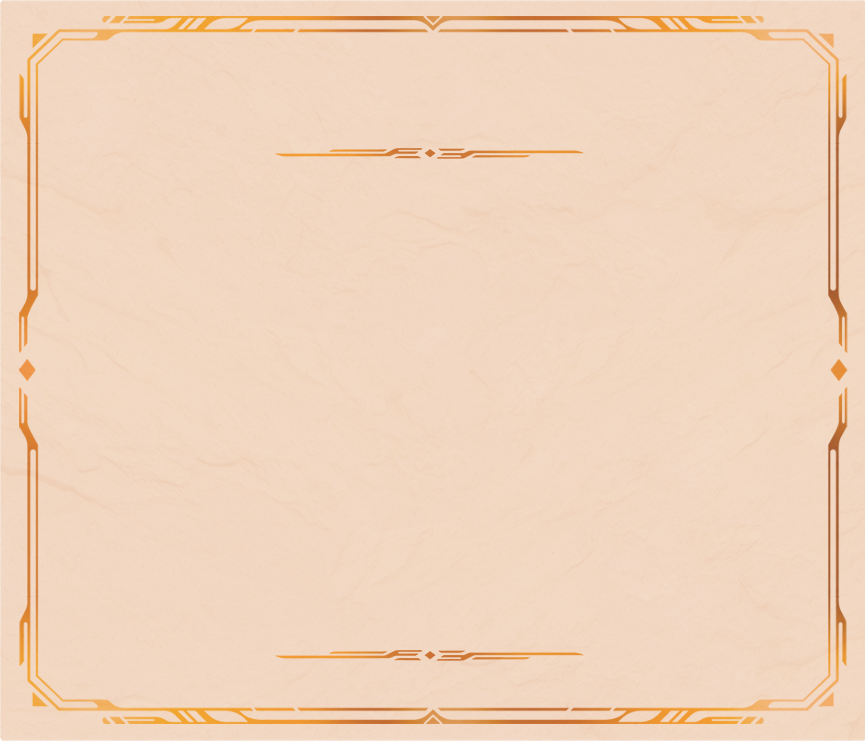
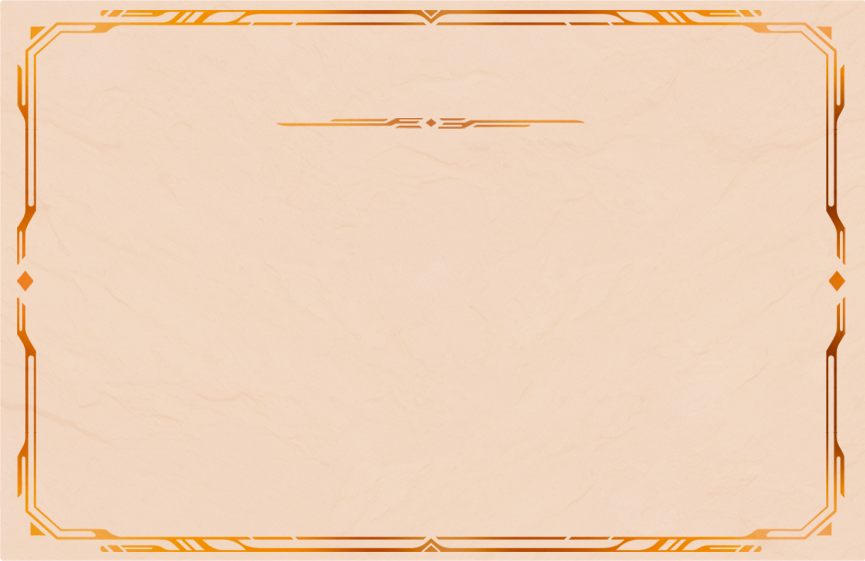
Faq and Coming soon Updated

Changed region(s): [[0.0, 0.0, 0.9988, 1.0], [0.3121, 0.1818, 0.6867, 0.2424], [0.3121, 0.8788, 0.6555, 0.9091]]

diff --git a/src/pages/FAQPage.jsx b/src/pages/FAQPage.jsx
@@ -1,62 +1,124 @@
-import React from 'react';
+import React from "react";
 import Panel from "../assets/Images/FPanel.png";
 import Bread from "../assets/Images/BreadBG.png";
+import Banner from "../assets/Images/Banner.png";
 
 export default function FAQPage({ setCurrentPage }) {
   return (
     <div className="flex justify-center items-center min-h-screen p-4">
       <div className="relative flex flex-col items-center w-full">
         {/* Breadcrumb at the top */}
-        <div className="relative w-[500px] h-[81px] flex items-center justify-center mt-[-30px] mb-[10px] z-10"
-             style={{ backgroundImage: `url(${Bread})`, backgroundSize: 'contain', backgroundRepeat: 'no-repeat', backgroundPosition: 'center' }}>
+        <div
+          className="relative w-[500px] h-[81px] flex items-center justify-center mt-[-150px] mb-[10px] z-10"
+          style={{
+            backgroundImage: `url(${Bread})`,
+            backgroundSize: "contain",
+            backgroundRepeat: "no-repeat",
+            backgroundPosition: "center",
+          }}
+        >
           <div className="flex items-center space-x-2 text-[#4a2d00] font-semibold">
-            <button 
-              onClick={() => setCurrentPage('battle')} 
-              className="cursor-pointer hover:text-[#e0ac54] transition-colors">
+            <button
+              onClick={() => setCurrentPage("battle")}
+              className="cursor-pointer hover:text-[#e0ac54] transition-colors"
+            >
               Home
             </button>
             <span>&gt;</span>
-            <span className="text-[#e0ac54]">FAQ</span>
+            <span className="text-[#4a2d00]">FAQ</span>
           </div>
         </div>
-      <div className="relative rounded-lg p-7 w-[972px] h-[833px] shadow-lg bg-cover bg-center" style={{ backgroundImage: `url(${Panel})` }}>
-        
-        {/* FAQ Title */}
-        <h1 className="text-4xl font-bold text-[#4a2d00] text-center mb-4 mt-12">FAQ</h1>
-          
-        {/* FAQ Grid */}
-        <div className="grid grid-cols-1 md:grid-cols-2 gap-7 mt-36 ml-[115px] mr-18 max-w-4xl mx-auto">
-          <div className="bg-[#f9f3e8] border-2 border-[#e0ac54] rounded-md p-4 shadow-md w-[270px] h-[162px]">
-            <h2 className="font-bold text-base mb-2 text-[#4a2d00]">What is Bazaar Broker?</h2>
-            <p className="text-xs text-[#4a2d00]">
-              Bazaar Broker is a web-based deck tracker for The Bazaar. It helps players track battles and 
-              optimize their layouts (coming soon).
-            </p>
-          </div>
+        <div
+          className="relative rounded-lg p-7 w-[1038px] h-[673px] shadow-lg bg-cover bg-center"
+          style={{ backgroundImage: `url(${Panel})` }}
+        >
+          {/* FAQ Title */}
+          <h1 className="text-4xl font-bold text-[#4a2d00] text-center mb-4 mt-12">
+            FAQ
+          </h1>
 
-          <div className="bg-[#f9f3e8] border-2 border-[#e0ac54] rounded-md p-4 shadow-md w-[270px] h-[162px]">
-            <h2 className="font-bold text-lg mb-2 text-[#4a2d00]">Is it free to use?</h2>
-            <p className="text-sm text-[#4a2d00]">
-              Yes, Bazaar Broker is completely free to use for all players.
-            </p>
-          </div>
+          {/* FAQ Grid */}
+          <div className="grid grid-cols-1 md:grid-cols-2 gap-7 mt-[95px] ml-[140px] mr-18 max-w-4xl mx-auto">
+            <div className="bg-[#f9f3e8] border-2 border-[#e0ac54] rounded-md p-4 shadow-md w-[270px] h-[162px]">
+              <h2 className="font-bold text-base mb-2 text-[#4a2d00]">
+                What is Bazaar Broker?
+              </h2>
+              <p className="text-xs text-[#4a2d00]">
+                Bazaar Broker is a web-based deck tracker for The Bazaar. It
+                helps players track battles and optimize their layouts (coming
+                soon).
+              </p>
+            </div>
 
-          <div className="bg-[#f9f3e8] border-2 border-[#e0ac54] rounded-md p-4 shadow-md w-[270px] h-[162px]">
-            <h2 className="font-bold text-lg mb-2 text-[#4a2d00]">How do I get started?</h2>
-            <p className="text-sm text-[#4a2d00]">
-              Simply Add you Cards in the Deck or Choose from a Monster Loadout then Clik on Battle.
-            </p>
-          </div>
+            <div className="bg-[#f9f3e8] border-2 border-[#e0ac54] rounded-md p-4 shadow-md w-[270px] h-[162px]">
+              <h2 className="font-bold text-lg mb-2 text-[#4a2d00]">
+                Is it free to use?
+              </h2>
+              <p className="text-sm text-[#4a2d00]">
+                Yes, Bazaar Broker is completely free to use for all players.
+              </p>
+            </div>
 
-          <div className="bg-[#f9f3e8] border-2 border-[#e0ac54] rounded-md p-4 shadow-md w-[270px] h-[162px]">
-            <h2 className="font-bold text-lg mb-2 text-[#4a2d00]">What features are coming soon?</h2>
-            <p className="text-sm text-[#4a2d00]">
-              We're working on deck optimization tools, advanced statistics, A detailed list of items.
-            </p>
+            <div className="bg-[#f9f3e8] border-2 border-[#e0ac54] rounded-md p-4 shadow-md w-[270px] h-[162px]">
+              <h2 className="font-bold text-lg mb-2 text-[#4a2d00]">
+                How do I get started?
+              </h2>
+              <p className="text-sm text-[#4a2d00]">
+                Simply Add you Cards in the Deck or Choose from a Monster
+                Loadout then Clik on Battle.
+              </p>
+            </div>
+
+            <div className="bg-[#f9f3e8] border-2 border-[#e0ac54] rounded-md p-4 shadow-md w-[270px] h-[162px]">
+              <h2 className="font-bold text-lg mb-2 text-[#4a2d00]">
+                What features are coming soon?
+              </h2>
+              <p className="text-sm text-[#4a2d00]">
+                We're working on deck optimization tools, advanced statistics, A
+                detailed list of items.
+              </p>
+            </div>
+          </div>
+        </div>
+        {/* Support Banner fixed at Bottom */}
+        <div
+          className="fixed bottom-0 left-0 w-full h-[150px] z-50 flex justify-center items-center"
+          style={{
+            backgroundImage: `url(${Banner})`,
+            backgroundSize: "cover",
+            backgroundRepeat: "no-repeat",
+            backgroundPosition: "center",
+          }}
+        >
+          <div className=" mt-[25px] w-full max-w-screen-xl flex justify-between items-center px-10">
+            <div className="max-w-[60%] text-[#4a2d00] text-sm leading-relaxed">
+              <p>
+                We would love to create our own Bazaar-inspired game. We've
+                launched a Kickstarter page where you can show your support.
+                <br />
+                Why should you spend your hard-earned money on us?
+                <br />
+                Reynad, while he was still handsome, released{" "}
+                <i>The Bazaar | Reynad’s New Card Game</i> 6 years ago.
+                <br />
+                We can do better in 6 ... months.
+              </p>
+            </div>
+
+            <button
+              className="bg-[#4a2d00] hover:bg-[#e0ac54] text-white font-semibold px-6 py-2 rounded-xl transition-colors"
+              onClick={() =>
+                window.open(
+                  "https://bazaar-broker-kickstarter-link.com",
+                  "_blank"
+                )
+              }
+            >
+              Support Us
+            </button>
           </div>
         </div>
       </div>
-    </div>
     </div>
   );
 }

diff --git a/src/pages/UpcomingFeaturesPage.jsx b/src/pages/UpcomingFeaturesPage.jsx
@@ -1,58 +1,124 @@
 import React from "react";
-import Panel from "../assets/Images/FPanel.png";
 import Bread from "../assets/Images/BreadBG.png";
+import FF from "../assets/Images/FeatureFrame.png";
+import Banner from "../assets/Images/Banner.png";
 
 const UpcomingFeatures = ({ setCurrentPage }) => {
-return (
-  <div className="flex justify-center items-center min-h-screen p-4">
-     <div className="relative flex flex-col items-center w-full">
-    {/* Breadcrumb at the top */}
-    <div 
-      className="relative w-[500px] h-[81px] flex items-center justify-center mt-[-30px] mb-[10px] z-10"
-      style={{ backgroundImage: `url(${Bread})`, backgroundSize: 'contain', backgroundRepeat: 'no-repeat', backgroundPosition: 'center' }}
-    >
-      <div className="flex items-center space-x-2 text-[#4a2d00] font-semibold">
-      <button 
-        onClick={() => setCurrentPage('battle')} 
-        className="cursor-pointer hover:text-[#e0ac54] transition-colors"
-      >
-        Home
-      </button>
-      <span>&gt;</span>
-      <span className="text-[#e0ac54]">Upcoming Features</span>
+  return (
+    <div className="flex justify-center items-center min-h-screen p-4">
+      <div className="relative flex flex-col items-center w-full">
+        {/* Breadcrumb at the top */}
+        <div
+          className="relative w-[500px] h-[81px] flex items-center justify-center mt-[-30px] mb-[10px] z-10"
+          style={{
+            backgroundImage: `url(${Bread})`,
+            backgroundSize: "contain",
+            backgroundRepeat: "no-repeat",
+            backgroundPosition: "center",
+          }}
+        >
+          <div className="flex items-center space-x-2 text-[#4a2d00] font-semibold">
+            <button
+              onClick={() => setCurrentPage("battle")}
+              className="cursor-pointer hover:text-[#e0ac54] transition-colors"
+            >
+              Home
+            </button>
+            <span>&gt;</span>
+            <span className="text-[#4a2d00]">Coming Soon</span>
+          </div>
+        </div>
+
+        {/* Feature Grid */}
+        <div className="relative rounded-lg p-7 w-[1100px] h-[750px]">
+          <div className="mt-[100px] grid grid-cols-2 gap-x-8 gap-y-7">
+            {[
+              "What's Left",
+              "Ranked Ladder",
+              "El",
+              "Deck Optimizer",
+              "Create Your Own Card",
+              "Quality of Life Improvements",
+            ].map((title, index) => (
+              <div key={index} className="relative">
+                <div
+                  className="w-full h-[115px] flex items-center justify-center"
+                  style={{
+                    backgroundImage: `url(${FF})`,
+                    backgroundSize: "contain",
+                    backgroundRepeat: "no-repeat",
+                    backgroundPosition: "center",
+                  }}
+                >
+                  {title === "El" ? (
+                    <div className="flex items-center justify-center text-center px-4">
+                      <span className="text-[#F1D5BD] font-bold text-lg">
+                        El: New Space and Time Hero (
+                      </span>
+                      <a
+                        href="/hero-info"
+                        target="_blank"
+                        className="text-[#e0ac54] hover:text-[#F1D5BD] text-lg underline mx-1"
+                      >
+                        More Info
+                      </a>
+                      <span className="text-[#F1D5BD] font-bold text-lg">
+                        )
+                      </span>
+                    </div>
+                  ) : (
+                    <h2
+                      className="font-bold text-lg text-[#F1D5BD]"
+                      dangerouslySetInnerHTML={{ __html: title }}
+                    ></h2>
+                  )}
+                </div>
+              </div>
+            ))}
+          </div>
+        </div>
+
+        {/* Support Banner fixed at Bottom */}
+        <div
+          className="fixed bottom-0 left-0 w-full h-[150px] z-50 flex justify-center items-center"
+          style={{
+            backgroundImage: `url(${Banner})`,
+            backgroundSize: "cover",
+            backgroundRepeat: "no-repeat",
+            backgroundPosition: "center",
+          }}
+        >
+          <div className=" mt-[25px] w-full max-w-screen-xl flex justify-between items-center px-10">
+            <div className="max-w-[60%] text-[#4a2d00] text-sm leading-relaxed">
+              <p>
+                We would love to create our own Bazaar-inspired game. We've
+                launched a Kickstarter page where you can show your support.
+                <br />
+                Why should you spend your hard-earned money on us?
+                <br />
+                Reynad, while he was still handsome, released{" "}
+                <i>The Bazaar | Reynad’s New Card Game</i> 6 years ago.
+                <br />
+                We can do better in 6 ... months.
+              </p>
+            </div>
+
+            <button
+              className="bg-[#4a2d00] hover:bg-[#e0ac54] text-white font-semibold px-6 py-2 rounded-xl transition-colors"
+              onClick={() =>
+                window.open(
+                  "https://bazaar-broker-kickstarter-link.com",
+                  "_blank"
+                )
+              }
+            >
+              Support Us
+            </button>
+          </div>
+        </div>
       </div>
     </div>
-
-    <div className="relative rounded-lg p-7 w-[972px] h-[833px] shadow-lg bg-cover bg-center" style={{ backgroundImage: `url(${Panel})` }}>
-    
-    {/* FAQ Title */}
-    <h1 className="text-4xl font-bold text-[#4a2d00] text-center mb-4 mt-12">Upcoming Features</h1>
-      
-    {/* FAQ List */}
-    <div className="mt-36 mx-auto max-w-2xl">
-      <ul className="space-y-5">
-      <li className="bg-[#f9f3e8] border-2 border-[#e0ac54] rounded-md p-4 shadow-md">
-        <h2 className="font-bold text-base mb-2 text-[#4a2d00]">All hero Items</h2>
-      </li>
-
-      <li className="bg-[#f9f3e8] border-2 border-[#e0ac54] rounded-md p-4 shadow-md">
-        <h2 className="font-bold text-base mb-2 text-[#4a2d00]">All days monster Loadouts</h2>
-      </li>
-
-      <li className="bg-[#f9f3e8] border-2 border-[#e0ac54] rounded-md p-4 shadow-md">
-        <h2 className="font-bold text-base mb-2 text-[#4a2d00]">Deck Optimization Button</h2>
-      </li>
-
-      <li className="bg-[#f9f3e8] border-2 border-[#e0ac54] rounded-md p-4 shadow-md">
-        <h2 className="font-bold text-base mb-2 text-[#4a2d00]">Load from Screenshot Button</h2>
-      </li>
-      </ul>
-    </div>
-    
-    </div>
-  </div>
-  </div>
-);
+  );
 };
 
 export default UpcomingFeatures;

diff --git a/src/App.jsx b/src/App.jsx
@@ -25,11 +25,13 @@ export default function App() {
         <UpcomingFeaturesPage setCurrentPage={setCurrentPage} />
       ) : null}
 
-      <img
-        src={Logo}
-        alt="Logo"
-        className="fixed bottom-0 right-[-20px] w-80 h-80 object-contain z-50 drop-shadow-2xl mb-[-100px]"
-      />
+      {currentPage === "battle" && (
+        <img
+          src={Logo}
+          alt="Logo"
+          className="fixed bottom-0 right-[-20px] w-80 h-80 object-contain z-50 drop-shadow-2xl mb-[-100px]"
+        />
+      )}
     </div>
     </>
   );

diff --git a/src/pages/BattlePage.jsx b/src/pages/BattlePage.jsx
@@ -2111,7 +2111,7 @@ export default function BattlePage() {
             >
               <div className="w-full h-full flex items-center justify-center">
                 <img
-                  src="/Icons/drop.svg"
+                  src="/Icons/Edit.svg"
                   alt="Edit"
                   className="w-10 h-10 pointer-events-none"
                 />

diff --git a/src/components/Navigation.jsx b/src/components/Navigation.jsx
@@ -50,7 +50,7 @@ export default function Navigation({ currentPage, setCurrentPage }) {
                 currentPage === 'features' ? 'text-[#f9f3e8]' : 'text-[#f9f3e8]/70'
               } hover:bg-[#613c00]`}
             >
-              Upcoming Features
+              Coming Soon
             </button>
           </div>
         </div>
